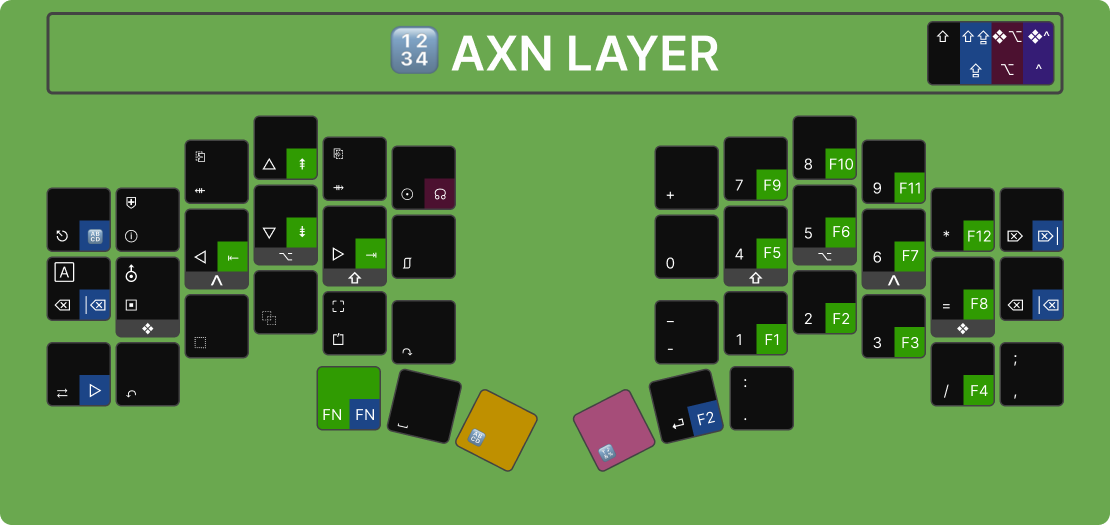
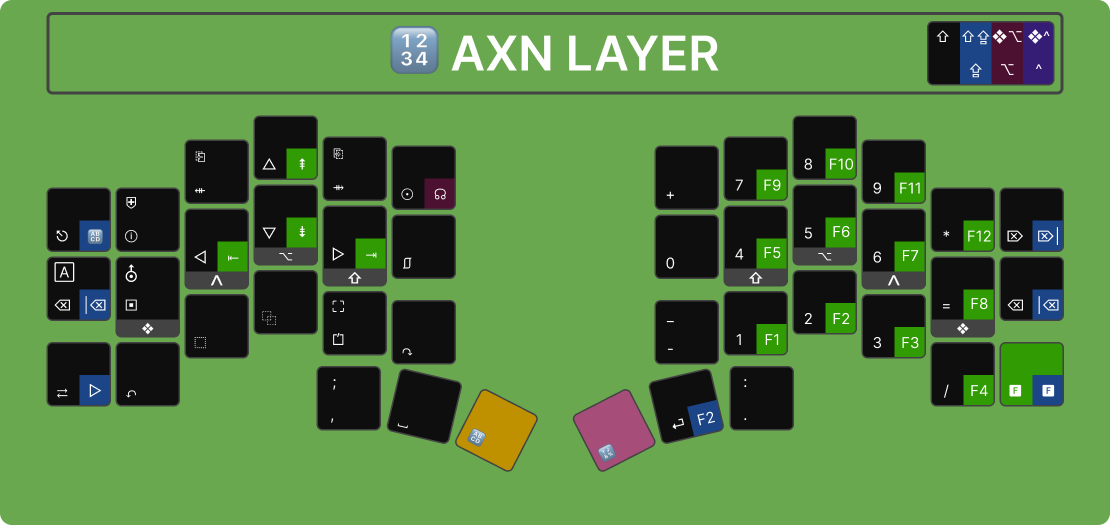
reordering layer buttons

Changed region(s): [[0.8883, 0.64, 0.9802, 0.7924], [0.2757, 0.701, 0.3676, 0.8229]]

diff --git a/README.md b/README.md
@@ -226,9 +226,9 @@ Dedicated to Bluetooth and media controls.
 | <kbd>🔎+</kbd>  | Zoom in                  |
 | <kbd>🔎R</kbd>  | Zoom reset               |
 | <kbd>🔎-</kbd>  | Zoom out                 |
-| <kbd>🔊+</kbd>  | Volume up                |
-| <kbd>🔈M</kbd>   | Mute                     |
-| <kbd>🔉-</kbd>   | Volume down              |
+| <kbd>🔊</kbd>   | Volume up                |
+| <kbd>🔇</kbd>   | Mute                     |
+| <kbd>🔉</kbd>    | Volume down              |
 | <kbd>🔅</kbd>    | Bright down              |
 | <kbd>🔆</kbd>    | Bright up                |
 

diff --git a/CHANGELOG.md b/CHANGELOG.md
@@ -1,5 +1,9 @@
 # CHANGELOG
 
+## 5.2.0
+
+- Reorganizing the layers buttons
+
 ## 5.1.0
 
 - Add momentary `DEV` layer on `BAS`
